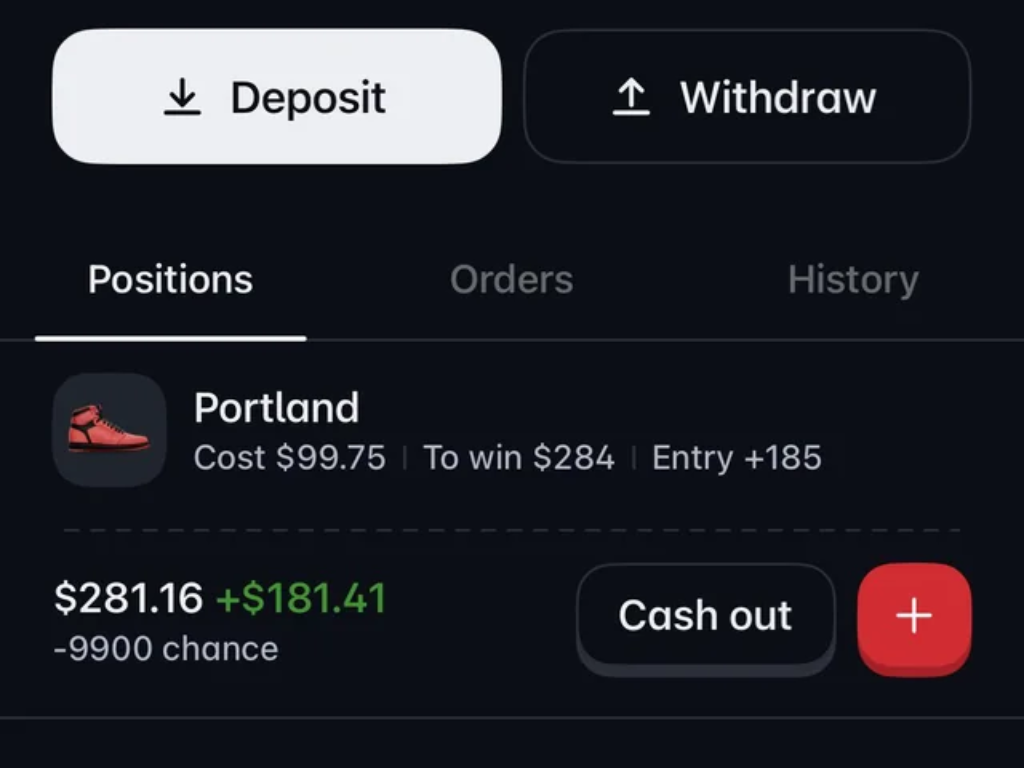
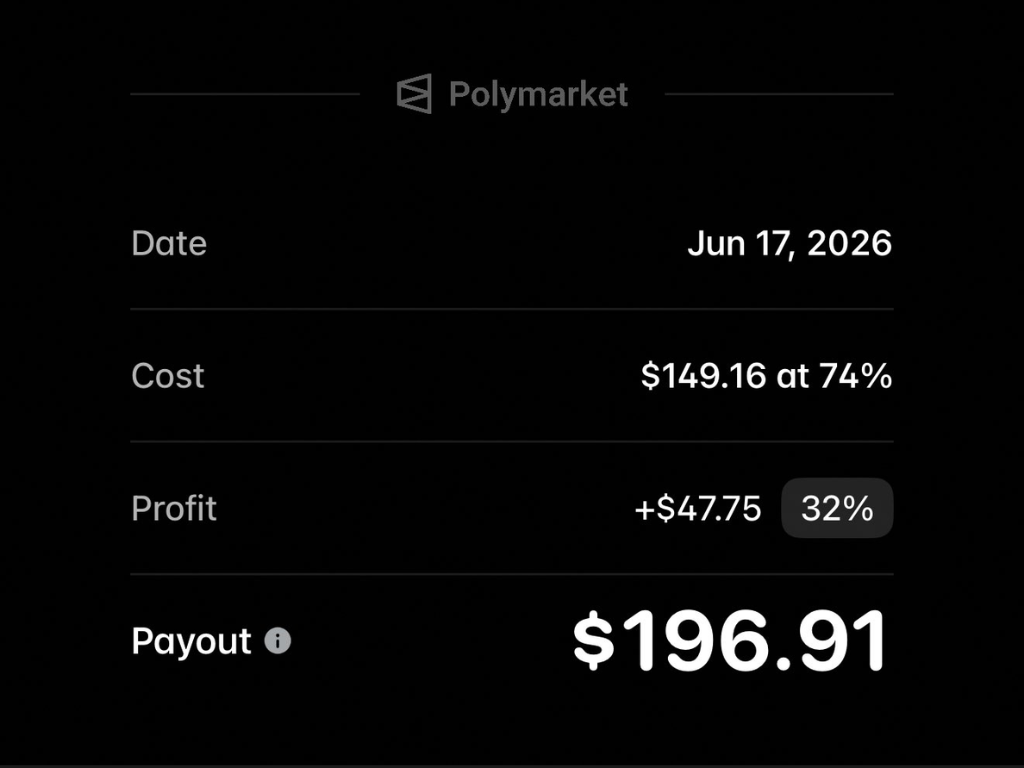
Swap Polymarket card to a settled win ($196.91 payout)
Replaced the open Polymarket position with a settled one: Cost $149.16, profit
+$47.75, payout $196.91 — a closed/settled win (no longer an open "Cash out"
position). 4:3, fills the card.

diff --git a/lib/betslips.ts b/lib/betslips.ts
@@ -95,7 +95,7 @@ export const BET_SLIPS: BetSlip[] = [
     date: "05/21 · 4:33 PM",
     clv: "+10.4%",
     image: "/slips/polymarket-win.png",
-    imageAlt: "Polymarket Portland position up $181.41",
+    imageAlt: "Polymarket position settled, payout $196.91 (+$47.75 profit)",
     imageW: 1024,
     imageH: 768,
   },